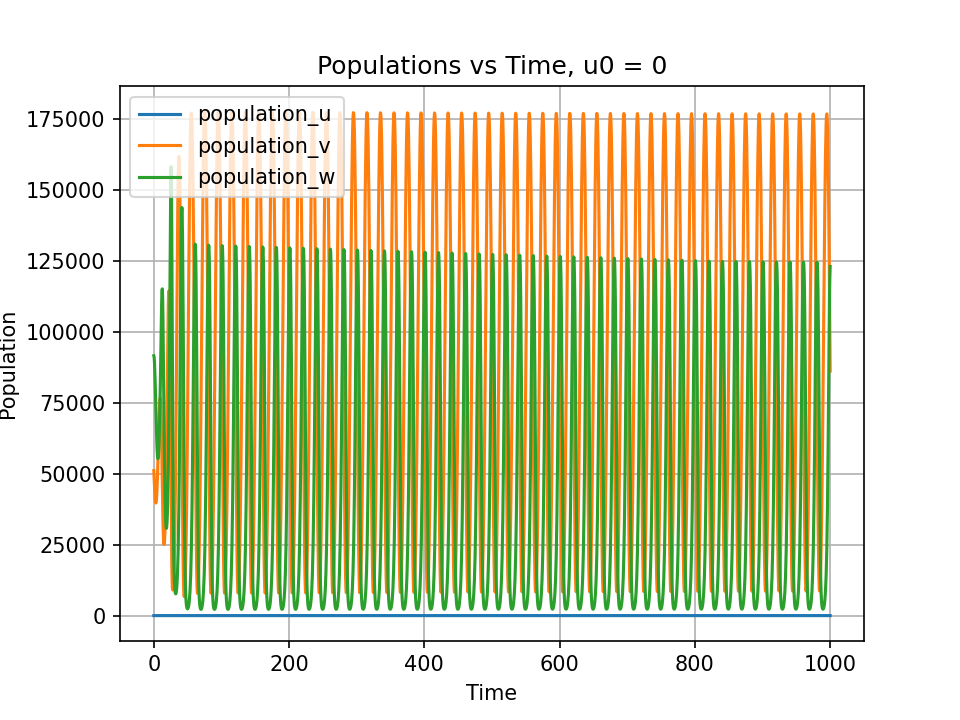
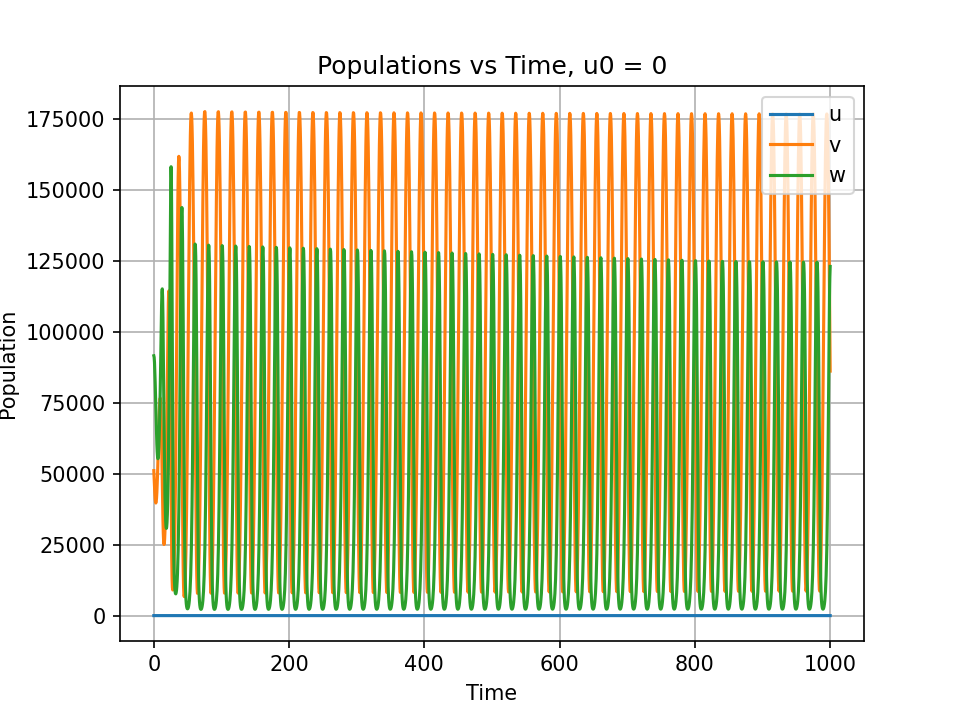
population plottar bättre

Changed region(s): [[0.125, 0.1222, 0.375, 0.275], [0.7812, 0.1222, 0.9062, 0.275]]

diff --git a/C/plot_pop.py b/C/plot_pop.py
@@ -10,15 +10,16 @@ df = pd.read_csv(os.path.join(data_folder, f"{data}_population.csv"))
 
 # Plot populations vs time
 plt.figure()
-plt.plot(df["time"], df["population_u"], label="population_u")
-plt.plot(df["time"], df["population_v"], label="population_v")
-plt.plot(df["time"], df["population_w"], label="population_w")
+plt.plot(df["time"], df["population_u"], label="u")
+plt.plot(df["time"], df["population_v"], label="v")
+plt.plot(df["time"], df["population_w"], label="w")
 
 # Labels and legend
 plt.xlabel("Time")
 plt.ylabel("Population")
-plt.title("Populations vs Time")
+plt.title("Populations vs Time: Sweden mesh")
 plt.legend()
+
 plt.grid(True)
 
 #plt.show()
